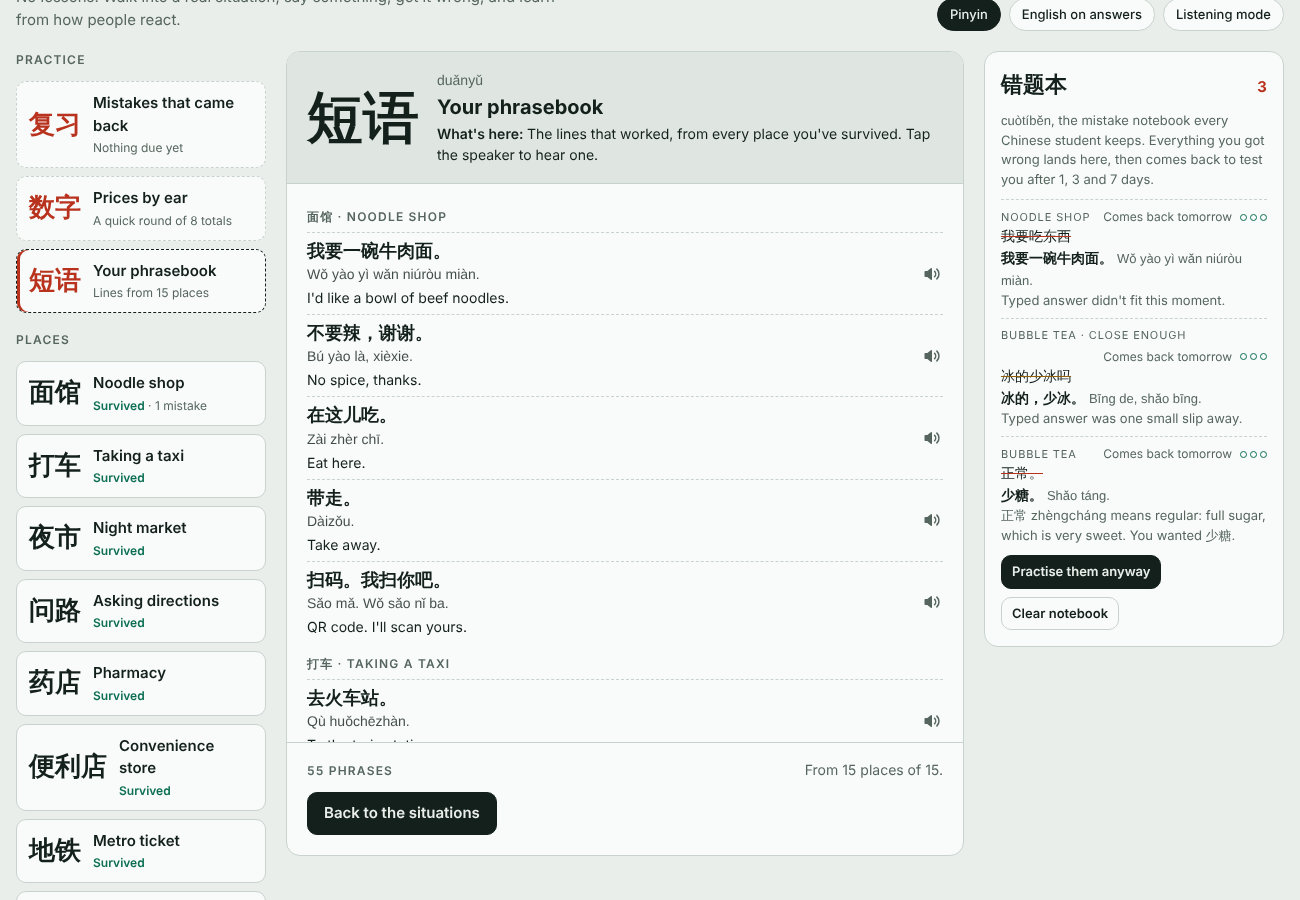
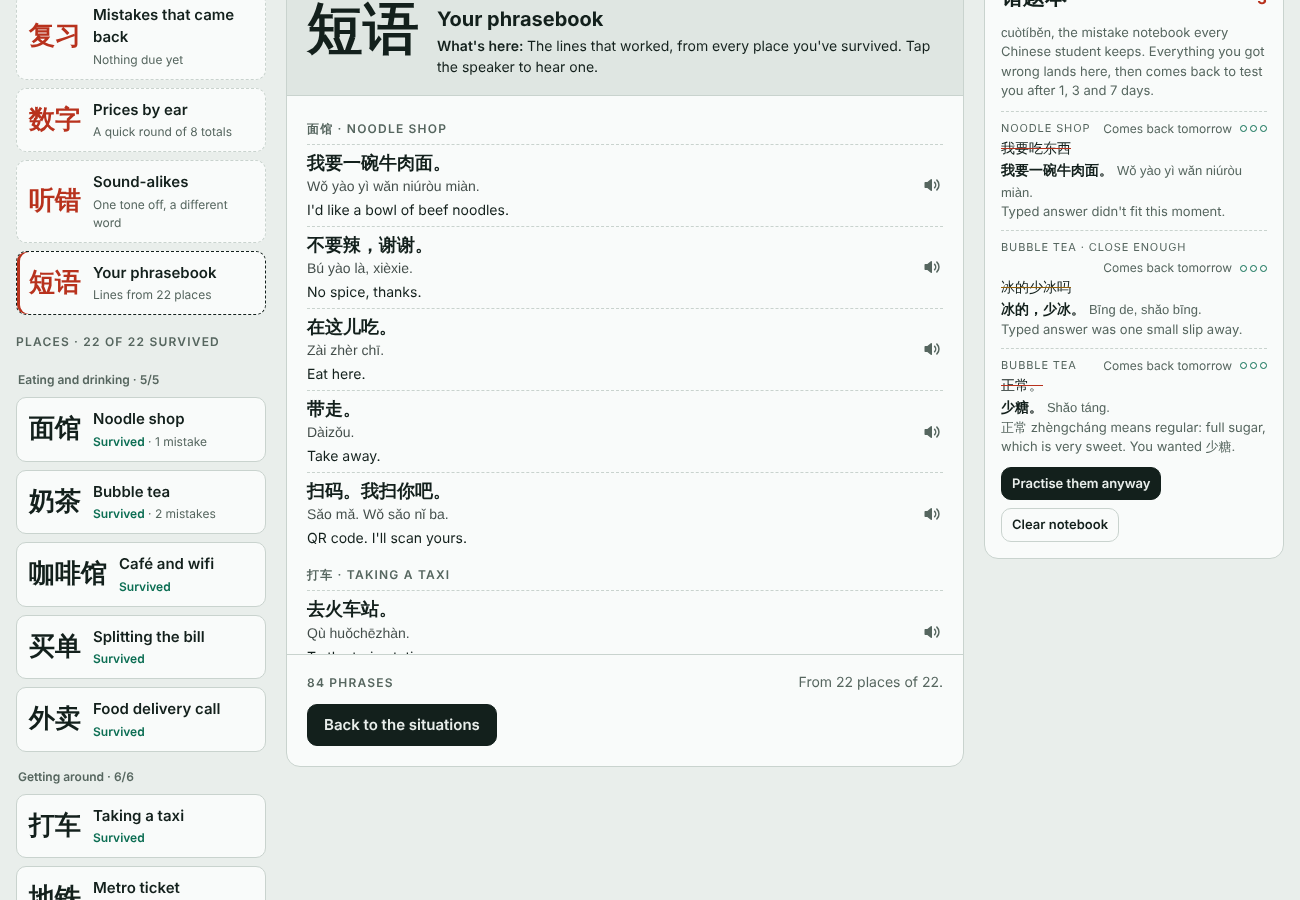
Review sound-alike mistakes by ear; number keys pick answers
Claude-Session: https://claude.ai/code/session_01R34RyutKKVc3RdJZ63YMvT

diff --git a/index.html b/index.html
@@ -733,7 +733,18 @@ function reviewItem() {
   rAnswered = false; rReveal = false;
   const n = rq[ri], s = S.find(x => x.id === n.sid), t = s && n.cb != null && s.curveballs ? s.curveballs[n.cb].turn : s && n.turn != null ? s.turns[n.turn] : null;
   if (s) cur = s;
-  if (t) {
+  const pair = n.sid === "ears" && PAIRS.find(p => p.a[0] === n.fix || p.b[0] === n.fix);
+  if (pair) {
+    // A sound-alike: hear it again and pick the meaning, like the first time
+    cur = LISTENER;
+    const said = pair.a[0] === n.fix ? pair.a : pair.b, other = said === pair.a ? pair.b : pair.a;
+    addNarr("A sound-alike that caught you out. Listen again.");
+    addNpc(canSpeak ? [said[0], said[1], ""] : ["…", said[1], ""], true);
+    order = shuffle([
+      { h: said[2], p: "", e: "", k: "good" },
+      { h: other[2], p: "", e: "", k: "wrong", note: pair.why, fix: [said[0], said[1]] }
+    ]);
+  } else if (t) {
     addNarr(`${s.en}, again. ${t.prompt}`);
     if (t.npc) addNpc(t.npc);
     order = shuffle(t.opts);
@@ -783,7 +794,7 @@ function renderReviewMove() {
     nx.onclick = () => { ri++; if (ri < rq.length) reviewItem(); else { addNarr(`Round done: ${rRight} of ${rq.length} right.`); renderReviewMove(); } };
     row.append(nx); m.append(row); return;
   }
-  if (order.length) { head.append(el("span", "prompt", "What do you say this time?")); m.append(optionButtons(order, reviewChoose)); return; }
+  if (order.length) { head.append(el("span", "prompt", n.sid === "ears" ? "What did they say?" : "What do you say this time?")); m.append(optionButtons(order, reviewChoose)); return; }
   // Off-script mistake: recall it, then grade yourself honestly
   head.append(el("span", "prompt", "What should you have said?"));
   if (!rReveal) {
@@ -1154,6 +1165,18 @@ $("#tg-py").onclick = () => { prefs.py = !prefs.py; store.set("sm-prefs", prefs)
 $("#tg-hint").onclick = () => { prefs.hint = !prefs.hint; store.set("sm-prefs", prefs); applyPrefs(); };
 $("#tg-listen").onclick = () => { prefs.listen = !prefs.listen; store.set("sm-prefs", prefs); applyPrefs(); };
 
+// Keys 1–9 pick an answer; Enter moves on when there's a single next step
+document.addEventListener("keydown", ev => {
+  if (ev.ctrlKey || ev.metaKey || ev.altKey || ev.isComposing) return;
+  const t = ev.target; if (t && (t.tagName === "INPUT" || t.tagName === "TEXTAREA" || t.isContentEditable)) return;
+  if (/^[1-9]$/.test(ev.key)) {
+    const o = document.querySelectorAll("#move .opt:not([disabled])")[+ev.key - 1];
+    if (o) { ev.preventDefault(); o.click(); }
+  } else if (ev.key === "Enter" && t === document.body) {
+    const b = document.querySelector("#move .endcard .btn:not(.ghost)");
+    if (b && !document.querySelector("#move .opt")) { ev.preventDefault(); b.click(); }
+  }
+});
 applyPrefs(); renderNotebook(); renderStreak();
 let last = null; try { last = localStorage.getItem("sm-last"); } catch {}
 start(S.some(s => s.id === last) ? last : S[0].id);
